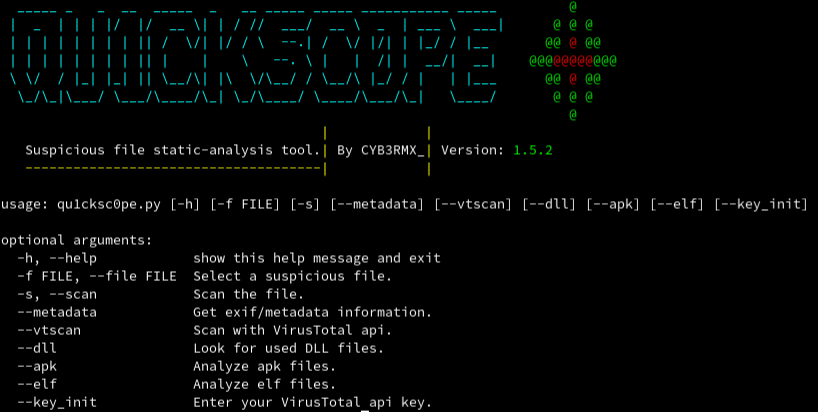
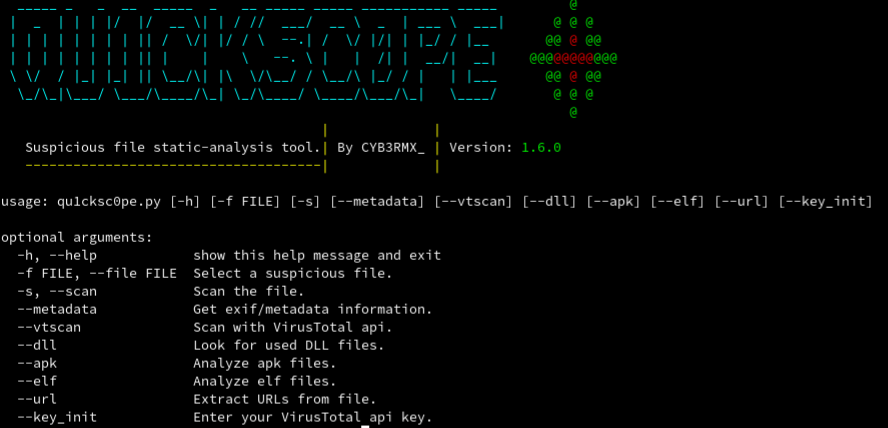
News 19/04/2020 20:42

Changed region(s): [[0.0, 0.4369, 1.0, 1.0], [0.0, 0.0, 0.7641, 0.2913], [0.0306, 0.2913, 0.6724, 0.4078]]

diff --git a/qu1cksc0pe.py b/qu1cksc0pe.py
@@ -48,6 +48,7 @@ def scope():
     parser.add_argument("--dll",required=False,help="Look for used DLL files.",action="store_true")
     parser.add_argument("--apk",required=False,help="Analyze apk files.",action="store_true")
     parser.add_argument("--elf",required=False,help="Analyze elf files.",action="store_true")
+    parser.add_argument("--url",required=False,help="Extract URLs from file.",action="store_true")
     parser.add_argument("--key_init",required=False,help="Enter your VirusTotal api key.",action="store_true")
     args = parser.parse_args()
     
@@ -125,6 +126,9 @@ def scope():
     if args.elf:
         command = "bash analyzer.sh --elf {}".format(args.file)
         os.system(command)
+    if args.url:
+        command = "bash urlCatcher.sh {}".format(args.file)
+        os.system(command)
     if args.key_init:
         apikey = str(input("{}[{}+{}]{} Enter your VirusTotal api key: ".format(cyan,red,cyan,white)))
         command = "echo '{}' > .apikey.txt".format(apikey)
@@ -140,7 +144,7 @@ def scope():
         print("+","-"*20,"+\n")
 # Exectuion area
 if __name__ == '__main__':
-    os.system("bash banner.sh")
+    os.system("bash .banner.sh")
     try:
         scope()
         os.system("rm -rf temp.txt")

diff --git a/README.md b/README.md
@@ -9,6 +9,7 @@ Quick suspicious file static-analysis tool.
 
 # Updates
 - <b>19/04/2020</b>: Added new functions.
+- <b>19/04/2020</b>: Added new argument (--url)
 
 # Scan arguments
 <b>----Normal Scan----</b><br>
@@ -19,6 +20,9 @@ Quick suspicious file static-analysis tool.
 
 <b>----DLL----</b><br>
 <b>Usage</b>: ```python3 qu1cksc0pe.py --file suspicious_file --dll```<br><br>
+
+<b>----URL----</b><br>
+<b>Usage</b>: ```python3 qu1cksc0pe.py --file suspicious_file --url```<br><br>
 
 <b>----VirusTotal----</b><br>
 <b>Attention!</b><i> this argument needs VirusTotal api key.</i><br>
